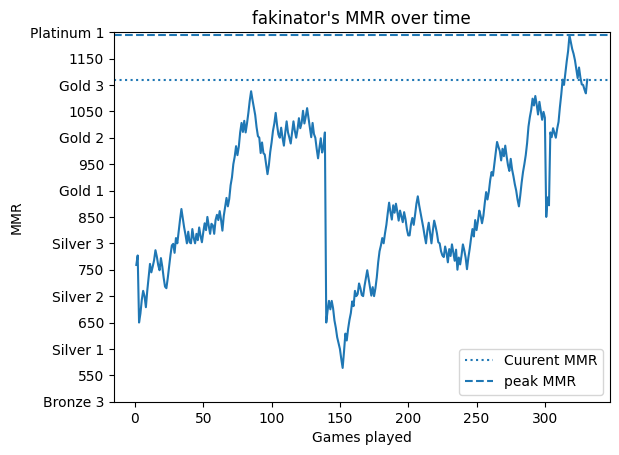
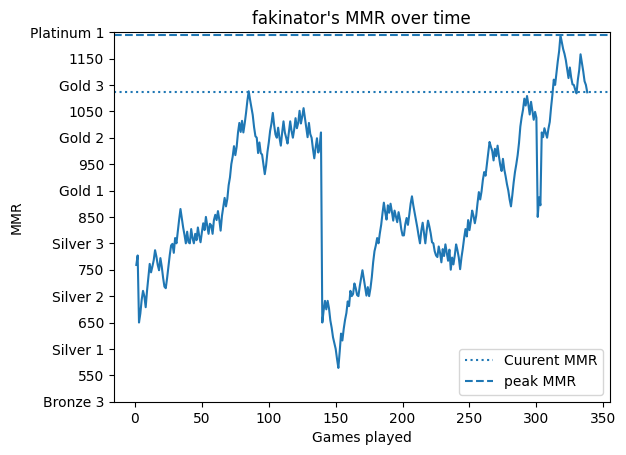
updated gitignore, added number of games to graph function input

diff --git a/graphs.py b/graphs.py
@@ -37,11 +37,15 @@ def get_mmr_list(puuid):
     y.pop(0)
     return range(1, len(y) + 1), y
 
-def generate_ticks(puuid):
+def generate_ticks(puuid, num_games=0):
     
     x, y = get_mmr_list(puuid)
     if not x:
         return(False, 'not enough data')
+
+    if num_games != 0:
+        y = y[-num_games:]
+        x = range(1, len(y) + 1)
 
     y_min = rounddown(min(y))
     y_max = roundup(max(y))
@@ -97,7 +101,7 @@ def generate_ticks(puuid):
 
     return  x, y, x_ticks, y_ticks, y_labels, [y_min,y_max]
 
-def graph(puuid="None", ign="", update=True, acts=False):
+def graph(puuid="None", ign="", num_games=0, update=True, acts=False):
 
     if puuid == "None" and ign == "":
         return (False, 'no ign or puuid given')
@@ -119,8 +123,8 @@ def graph(puuid="None", ign="", update=True, acts=False):
         thing = valorant.update_database(puuid=puuid)
         if thing[0] == False:
             return thing
-    
-    x, y, x_ticks, y_ticks, y_labels, y_range = generate_ticks(puuid)
+
+    x, y, x_ticks, y_ticks, y_labels, y_range = generate_ticks(puuid, num_games)
 
     fig, ax = plt.subplots()
     axes = fig.gca()
